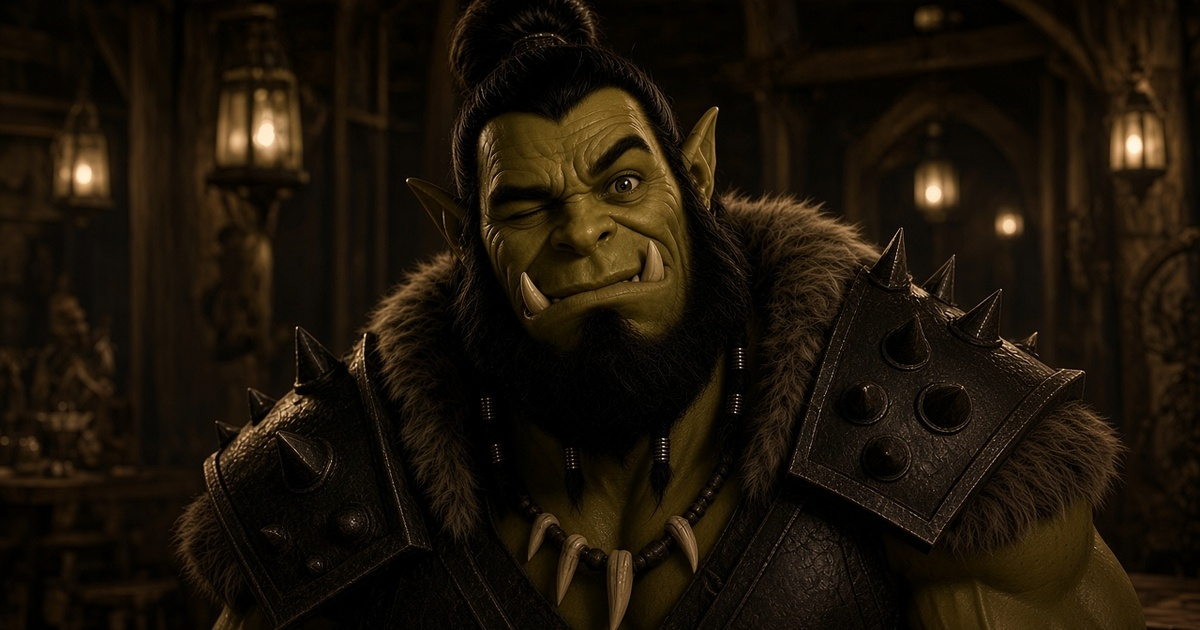
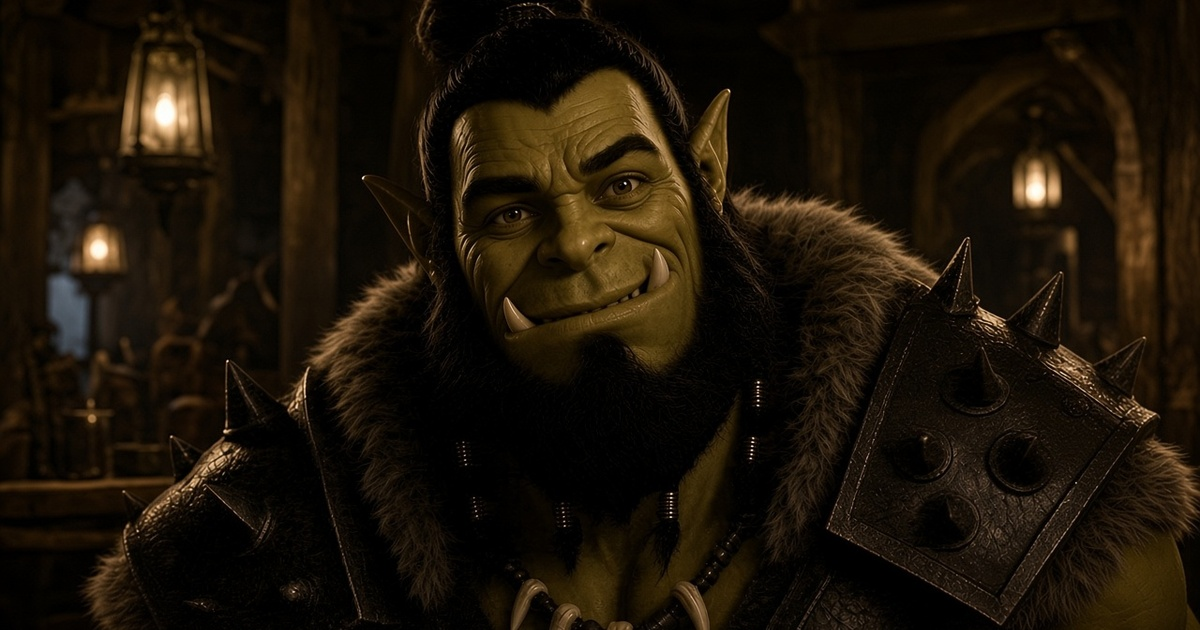
Reshoot Wink as open eyes, one wink, then a smile.

diff --git a/scripts/imagine-video.ts b/scripts/imagine-video.ts
@@ -97,7 +97,7 @@ const PROMPTS: Record<string, string> = {
   wave:
     "The orc waves hello with his raised hand, a warm friendly smile holding, a couple of waves. Locked camera.",
   wink:
-    "He starts looking at the camera with both eyes open and a slight grin. Then he winks one eye, sly grin holding. Locked camera.",
+    "Both eyes start open, a small smile. Then only one eyelid closes for a short wink while the other eye stays open. Then both eyes open and he holds a warm smile. Not a blink, not both eyes closing. Only one wink. Locked camera, no zoom.",
   working:
     "The orc types on the laptop, fingers moving, screen glow on his face, a focused blink. Locked camera.",
 };
